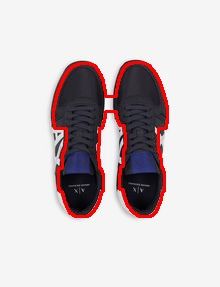
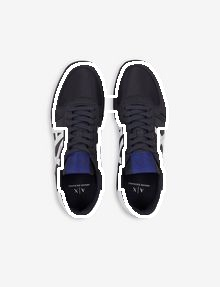
add mask

Changed region(s): [[0.2182, 0.1951, 0.7909, 0.7805]]

diff --git a/src/Main.java b/src/Main.java
@@ -44,13 +44,24 @@ public class Main {
 		List<MatOfPoint> contours = new ArrayList<>();
 		Mat hierarchey = new Mat();
 		Imgproc.findContours(closing, contours, hierarchey, Imgproc.RETR_TREE, Imgproc.CHAIN_APPROX_SIMPLE); //adds value to the contours list
-		Scalar color = new Scalar(0, 0, 255); //red
+		Scalar color = new Scalar(255, 255, 255); //red
 		int index = findLargestArea(contours); //index of largest area
 		//contours.remove(index); //remove it because largest area was the entire picture
 		//index = findLargestArea(contours);
 		Imgproc.drawContours(image, contours, index, color, 2); //draws contours only at the index
 		saveImage(image, "src/output/lines.jpg");
 		showImage("src/output/lines.jpg");
+		
+		Mat temp = loadImage(picture);
+		Mat mask = Mat.zeros(temp.size(), 0);
+		Imgproc.drawContours(mask, contours, index, color, -1);
+		saveImage(mask, "src/output/mask.jpg");
+		showImage("src/output/mask.jpg");
+		
+		Mat object = new Mat();
+		Core.bitwise_and(temp, temp, object, mask);
+		saveImage(object, "src/output/object.jpg");
+		showImage("src/output/object.jpg");
 	}
 	
 	//Loads the given image as a Mat(Matrix Representation)
